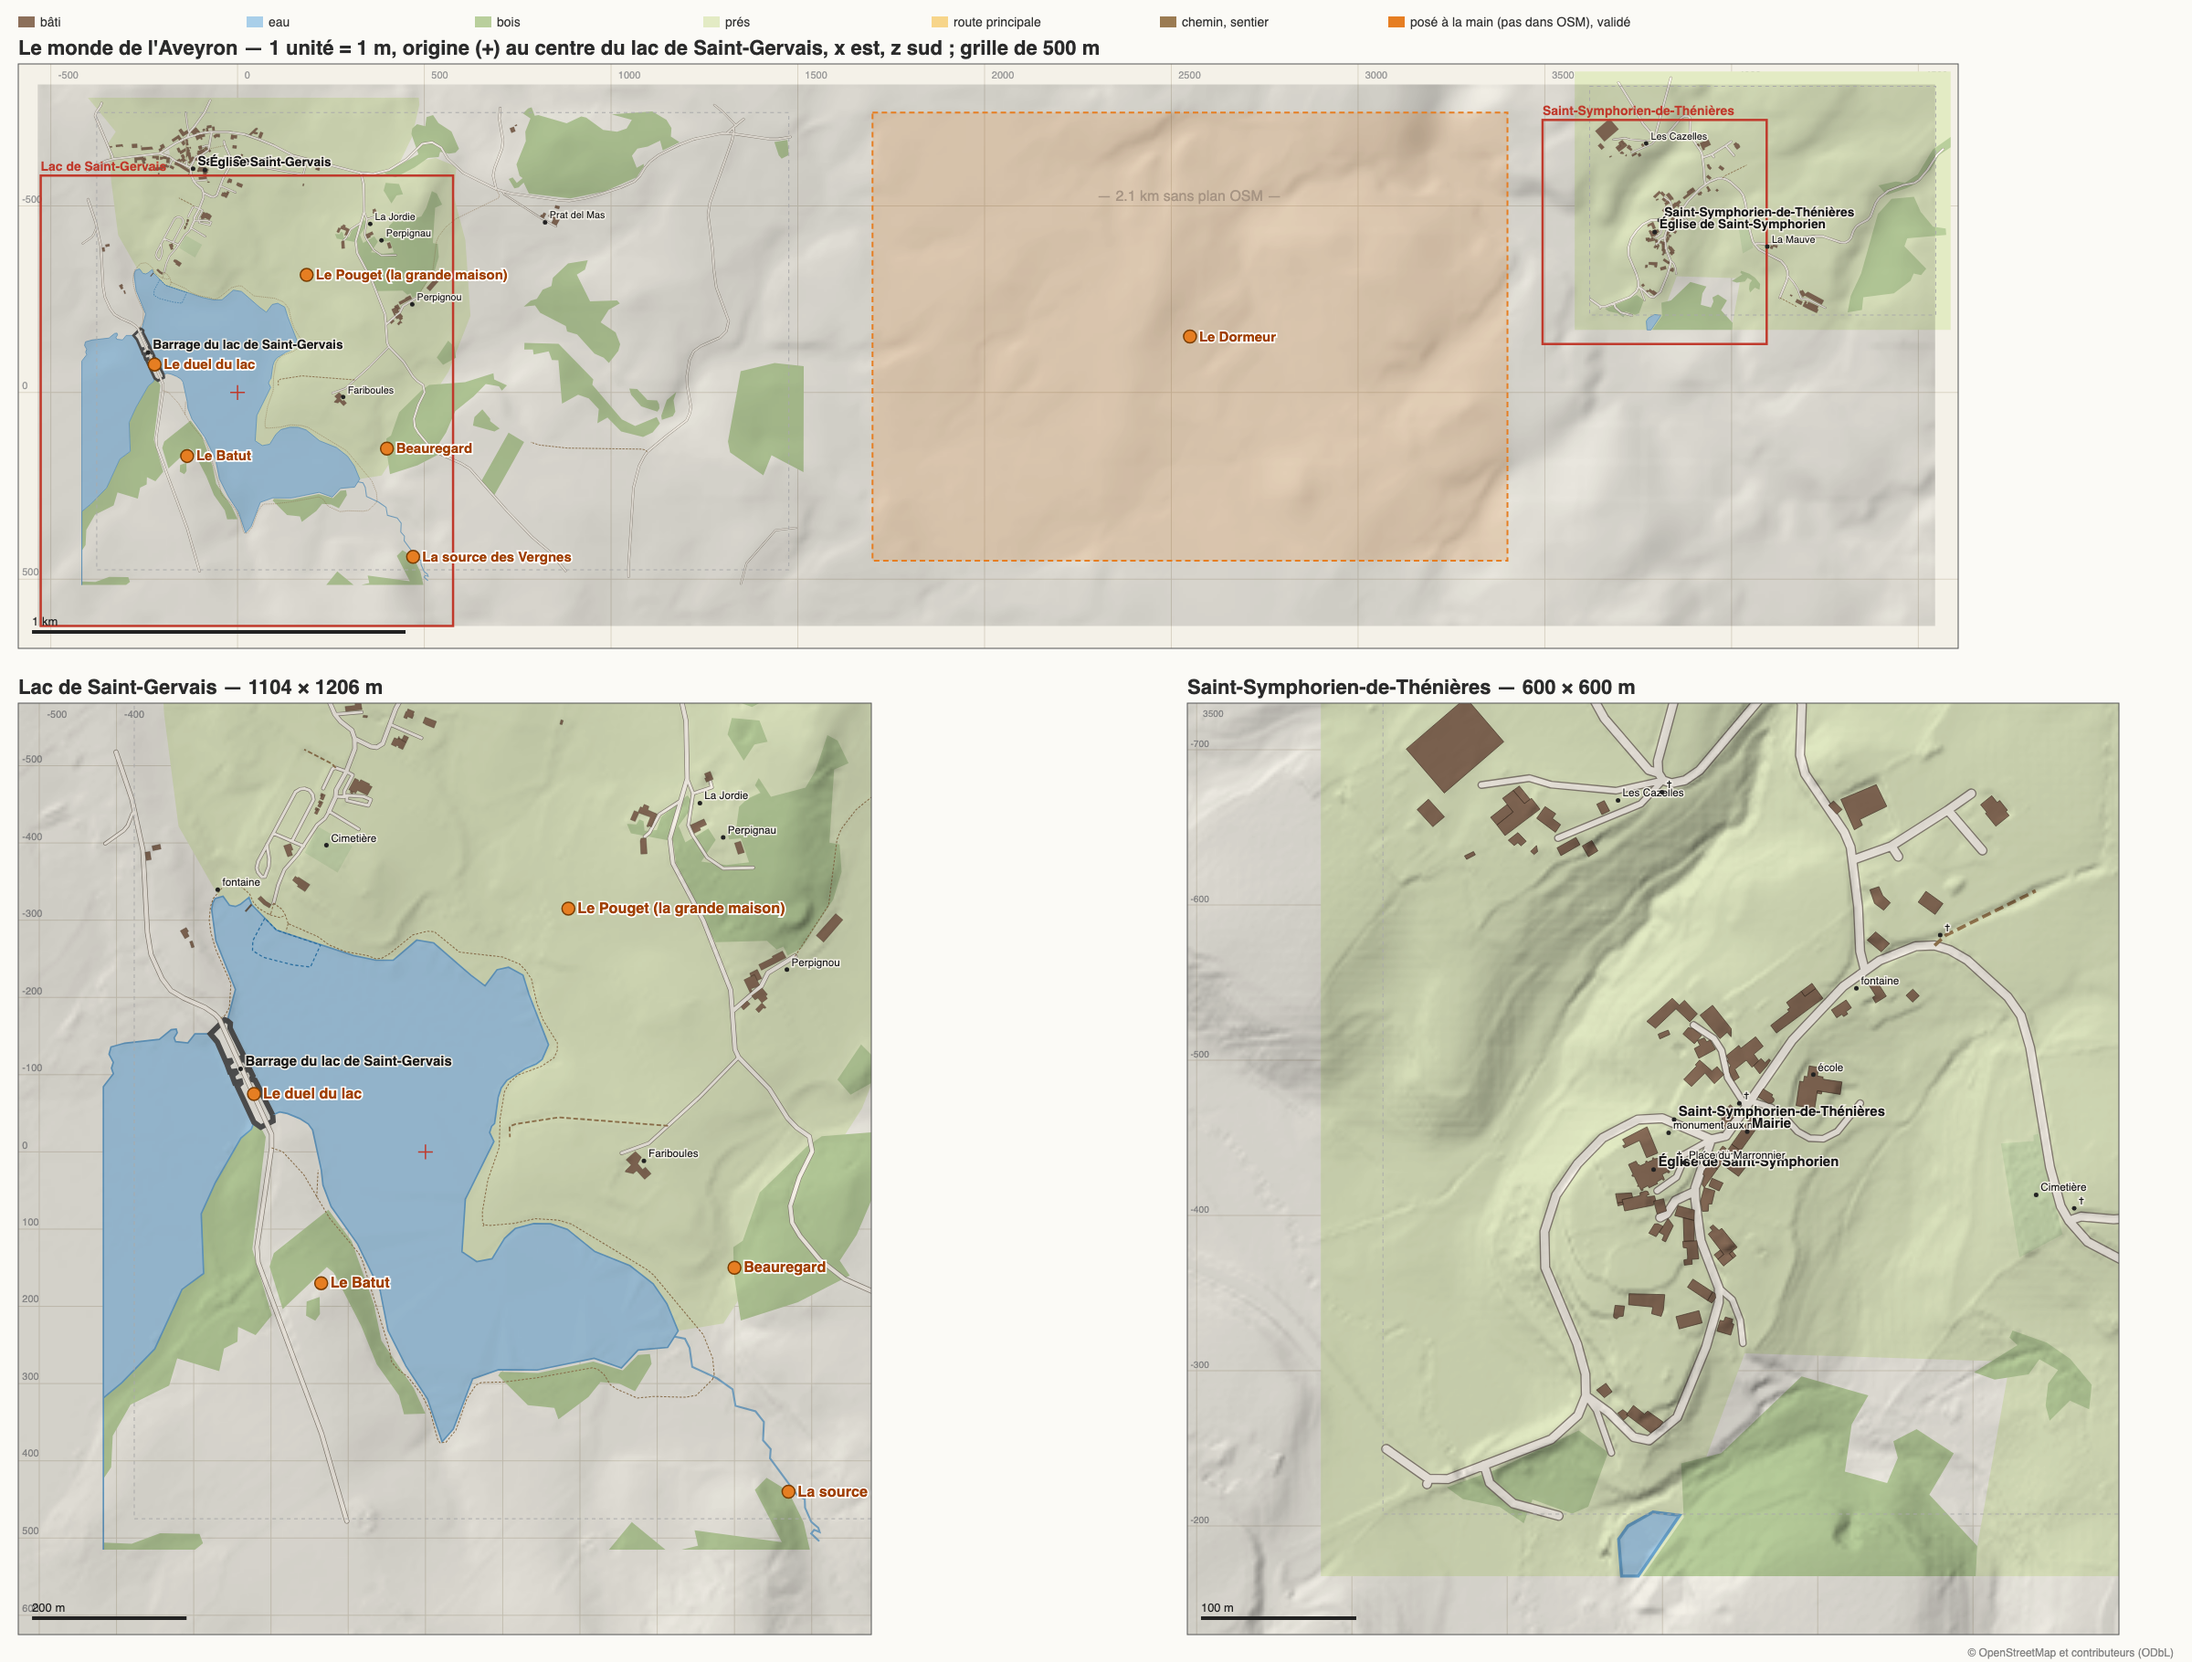
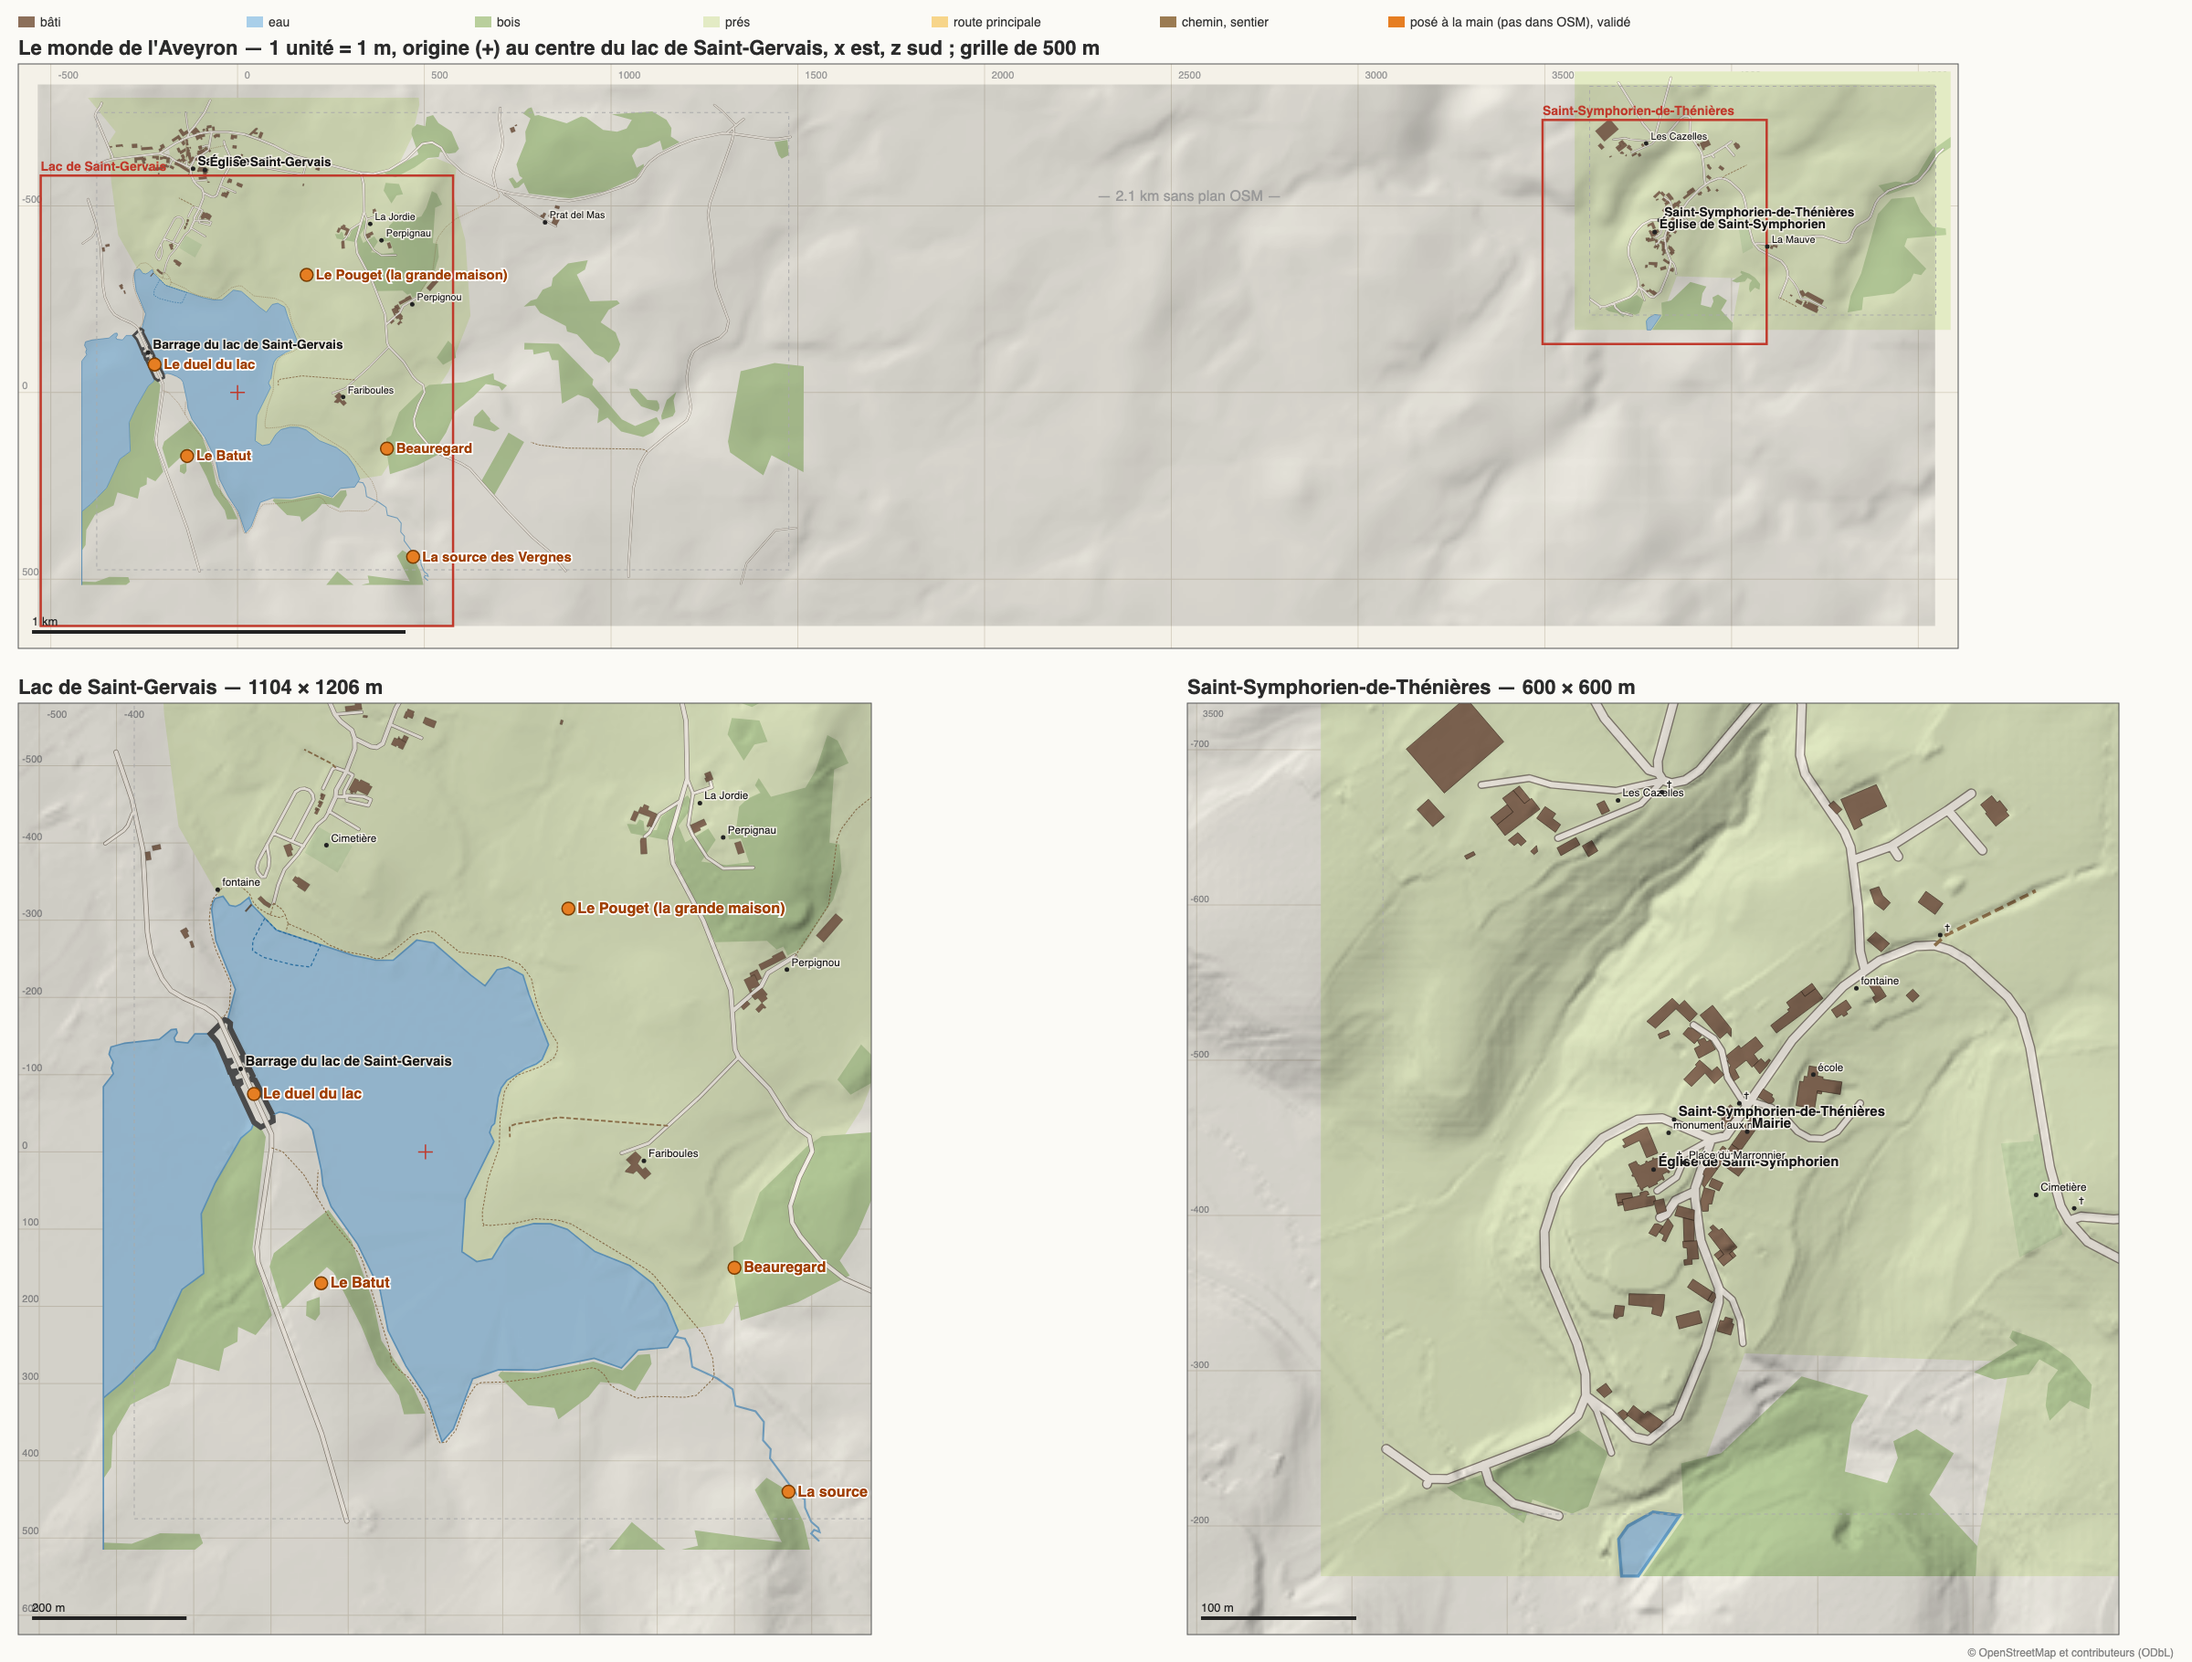
mondes : le Dormeur couché sur le mur de l'ouest, au-dessus de la vallée (candidat A, choisi par Eugène)

Changed region(s): [[0.375, 0.0615, 0.6875, 0.3385]]

diff --git a/carte/mondes/apercu-aveyron.py b/carte/mondes/apercu-aveyron.py
@@ -208,8 +208,8 @@ if os.path.exists(CHROME):
 # Le monde (5 × 1,4 km) est un plateau doux : aucune falaise pour le géant couché. Les environs
 # (relief-aveyron-environs.json, 14 × 12 km au pas de 50 m) montrent la vallée profonde qui
 # longe le lac au nord-ouest ; on y dessine les pentes de plus de 33° et les candidats.
-DORMEUR = [  # (nom, x, z, note) — mesurés le 2 octobre sur les environs ; à valider par Eugène
-    ('A — le mur de l’ouest', -2592, -501, '1,1 km nord-sud, 400 m de haut (300 → 700 m), 2,6 km à l’ouest du lac'),
+DORMEUR = [  # (nom, x, z, note) — mesurés le 2 octobre sur les environs ; Eugène a choisi A
+    ('A — le mur de l’ouest : le Dormeur (choisi)', -2592, -501, '1,1 km nord-sud, 400 m de haut (300 → 700 m), 2,6 km à l’ouest du lac'),
     ('B — l’escarpement du nord', 562, -3174, '1,7 km, 235 m de haut, 3,2 km au nord du lac'),
 ]
 F_ENV = os.path.join(ICI, 'relief-aveyron-environs.json')
@@ -228,7 +228,7 @@ if os.path.exists(F_ENV):
     bx = (E_['x0'] - pas / 2, E_['z0'] - pas / 2, nx * pas, nz * pas)
     o = ['<svg xmlns="http://www.w3.org/2000/svg" width="%d" height="%d" font-family="Helvetica, Arial, sans-serif">' % (W2, H2),
          '<rect width="100%" height="100%" fill="#fbfaf6"/>',
-         '<text x="20" y="34" font-size="20" font-weight="600" fill="#2b2b2b">Les environs du lac (14 × 12 km, relief IGN au pas de 50 m) — où coucher le Dormeur ?</text>',
+         '<text x="20" y="34" font-size="20" font-weight="600" fill="#2b2b2b">Les environs du lac (14 × 12 km, relief IGN au pas de 50 m) — où se couche le Dormeur</text>',
          '<text x="20" y="58" font-size="14" fill="#555">en rouge : pentes de plus de 33° ; en orange : les deux candidats ; cadres gris : les extraits OSM ; grille de 1 km</text>',
          '<svg x="20" y="70" width="%.0f" height="%.0f" viewBox="%.1f %.1f %.1f %.1f">' % ((nx * pas * s, nz * pas * s) + bx),
          '<rect x="%.1f" y="%.1f" width="%.1f" height="%.1f" fill="#f4f1e8"/>' % bx,

diff --git a/carte/mondes/extraire-aveyron.py b/carte/mondes/extraire-aveyron.py
@@ -344,10 +344,12 @@ POSES = [
      'note': "sur le ruisseau des Vergnes, qui NOURRIT le lac par le sud-est (il en sort au barrage) : "
              "la bande l'a bouchée, le lac baisse. Les autres sources de la quête : la fontaine du lac "
              "(OSM, x -269 z -339) et les deux fontaines de Saint-Symphorien (OSM)"},
-    {'k': 'dormeur', 'nom': 'Le Dormeur', 'x': 2550.0, 'z': -150.0,
-     'zone': [[1700, -750], [3400, -750], [3400, 450], [1700, 450], [1700, -750]],
-     'note': "aucune falaise dans OSM : le géant couché se cherche sur le relief (pas encore récolté), "
-             "dans les 2 km sans plan entre le lac et le bourg — rien n'y gêne un géant de 300 m"},
+    # Déplacé le 2 octobre : le plateau entre le lac et le bourg n'a aucune falaise ; Eugène a
+    # choisi le candidat A d'aveyron-environs.png, le mur de la vallée à l'ouest du lac.
+    {'k': 'dormeur', 'nom': 'Le Dormeur', 'x': -2592.0, 'z': -501.0,
+     'zone': [[-2900, -1100], [-2300, -1100], [-2300, 50], [-2900, 50], [-2900, -1100]],
+     'note': "le mur de l'ouest (44,7377 N ; 2,6480 E) : 1,1 km nord-sud, de 300 à 700 m, 2,6 km à l'ouest "
+             "du lac, hors des extraits OSM — relief dans relief-aveyron-environs.json (pas de 50 m)"},
 ]
 for e in POSES:
     out['lieux'].append(dict(e, pose='Eugène'))

diff --git a/carte/mondes/README.md b/carte/mondes/README.md
@@ -152,7 +152,7 @@ orange sur l'aperçu**, pour qu'on sache toujours qu'ils ne viennent pas d'OSM.
 | **Le Pouget** (la grande maison) | 185, -315 | rive nord-est, dans les prés, à égale distance des deux autres : là où les familles se retrouvent chez l'aïeule |
 | **Le duel du lac** | -222, -75 | sur la crête du barrage : un passage étroit entre l'eau et le vide, au point même de la querelle |
 | **La source des Vergnes** | 470, 440 | sur le ruisseau qui nourrit le lac : bouchée par la bande, le lac baisse. Les autres sources de la quête peuvent être des points d'OSM : la fontaine du lac (-269, -339), les deux fontaines de Saint-Symphorien |
-| **Le Dormeur** | 2 550, -150 (zone 1 700–3 400 × -750–450) | aucune falaise dans OSM ; dans les 2 km sans plan entre le lac et le bourg, où rien ne gêne un géant. **À affiner sur le relief** quand il sera récolté |
+| **Le Dormeur** | -2 592, -501 (zone -2 900 à -2 300 × -1 100 à 50) | aucune falaise dans OSM ni sur le plateau : le mur de la vallée à l'ouest du lac, 400 m de haut (candidat A des environs, choisi par Eugène le 2 octobre) |
 
 Ce qu'OSM n'a pas : **le four** de Saint-Symphorien (aucun `baking_oven`, seulement la
 « Rue du Four »), aucune falaise, aucune source. Le « lavoir » n'existe que par la rue du
@@ -182,8 +182,8 @@ aucune falaise pour le géant couché. `python3 recolter-relief-aveyron.py envir
 14 × 12 km autour du lac au pas de 50 m (339 requêtes, `relief-aveyron-environs.json`, de 279
 à 947 m) : une vallée profonde longe le lac au nord-ouest, à 400 m sous le plateau —
 probablement la Truyère, en contrebas de Montézic (à confirmer). `apercu-aveyron.py` en tire
-`aveyron-environs.png` : les pentes de plus de 33° et deux candidats, **à choisir par Eugène**
-(le Dormeur reste posé dans le trou entre les extraits tant qu'il n'a pas choisi) :
+`aveyron-environs.png` : les pentes de plus de 33° et deux candidats. **Eugène a choisi A**
+(2 octobre) : le Dormeur est posé sur le mur de l'ouest dans `aveyron.json`, hors des extraits OSM.
 
 | candidat | x, z | lat, lon | ce que c'est |
 |---|---|---|---|
